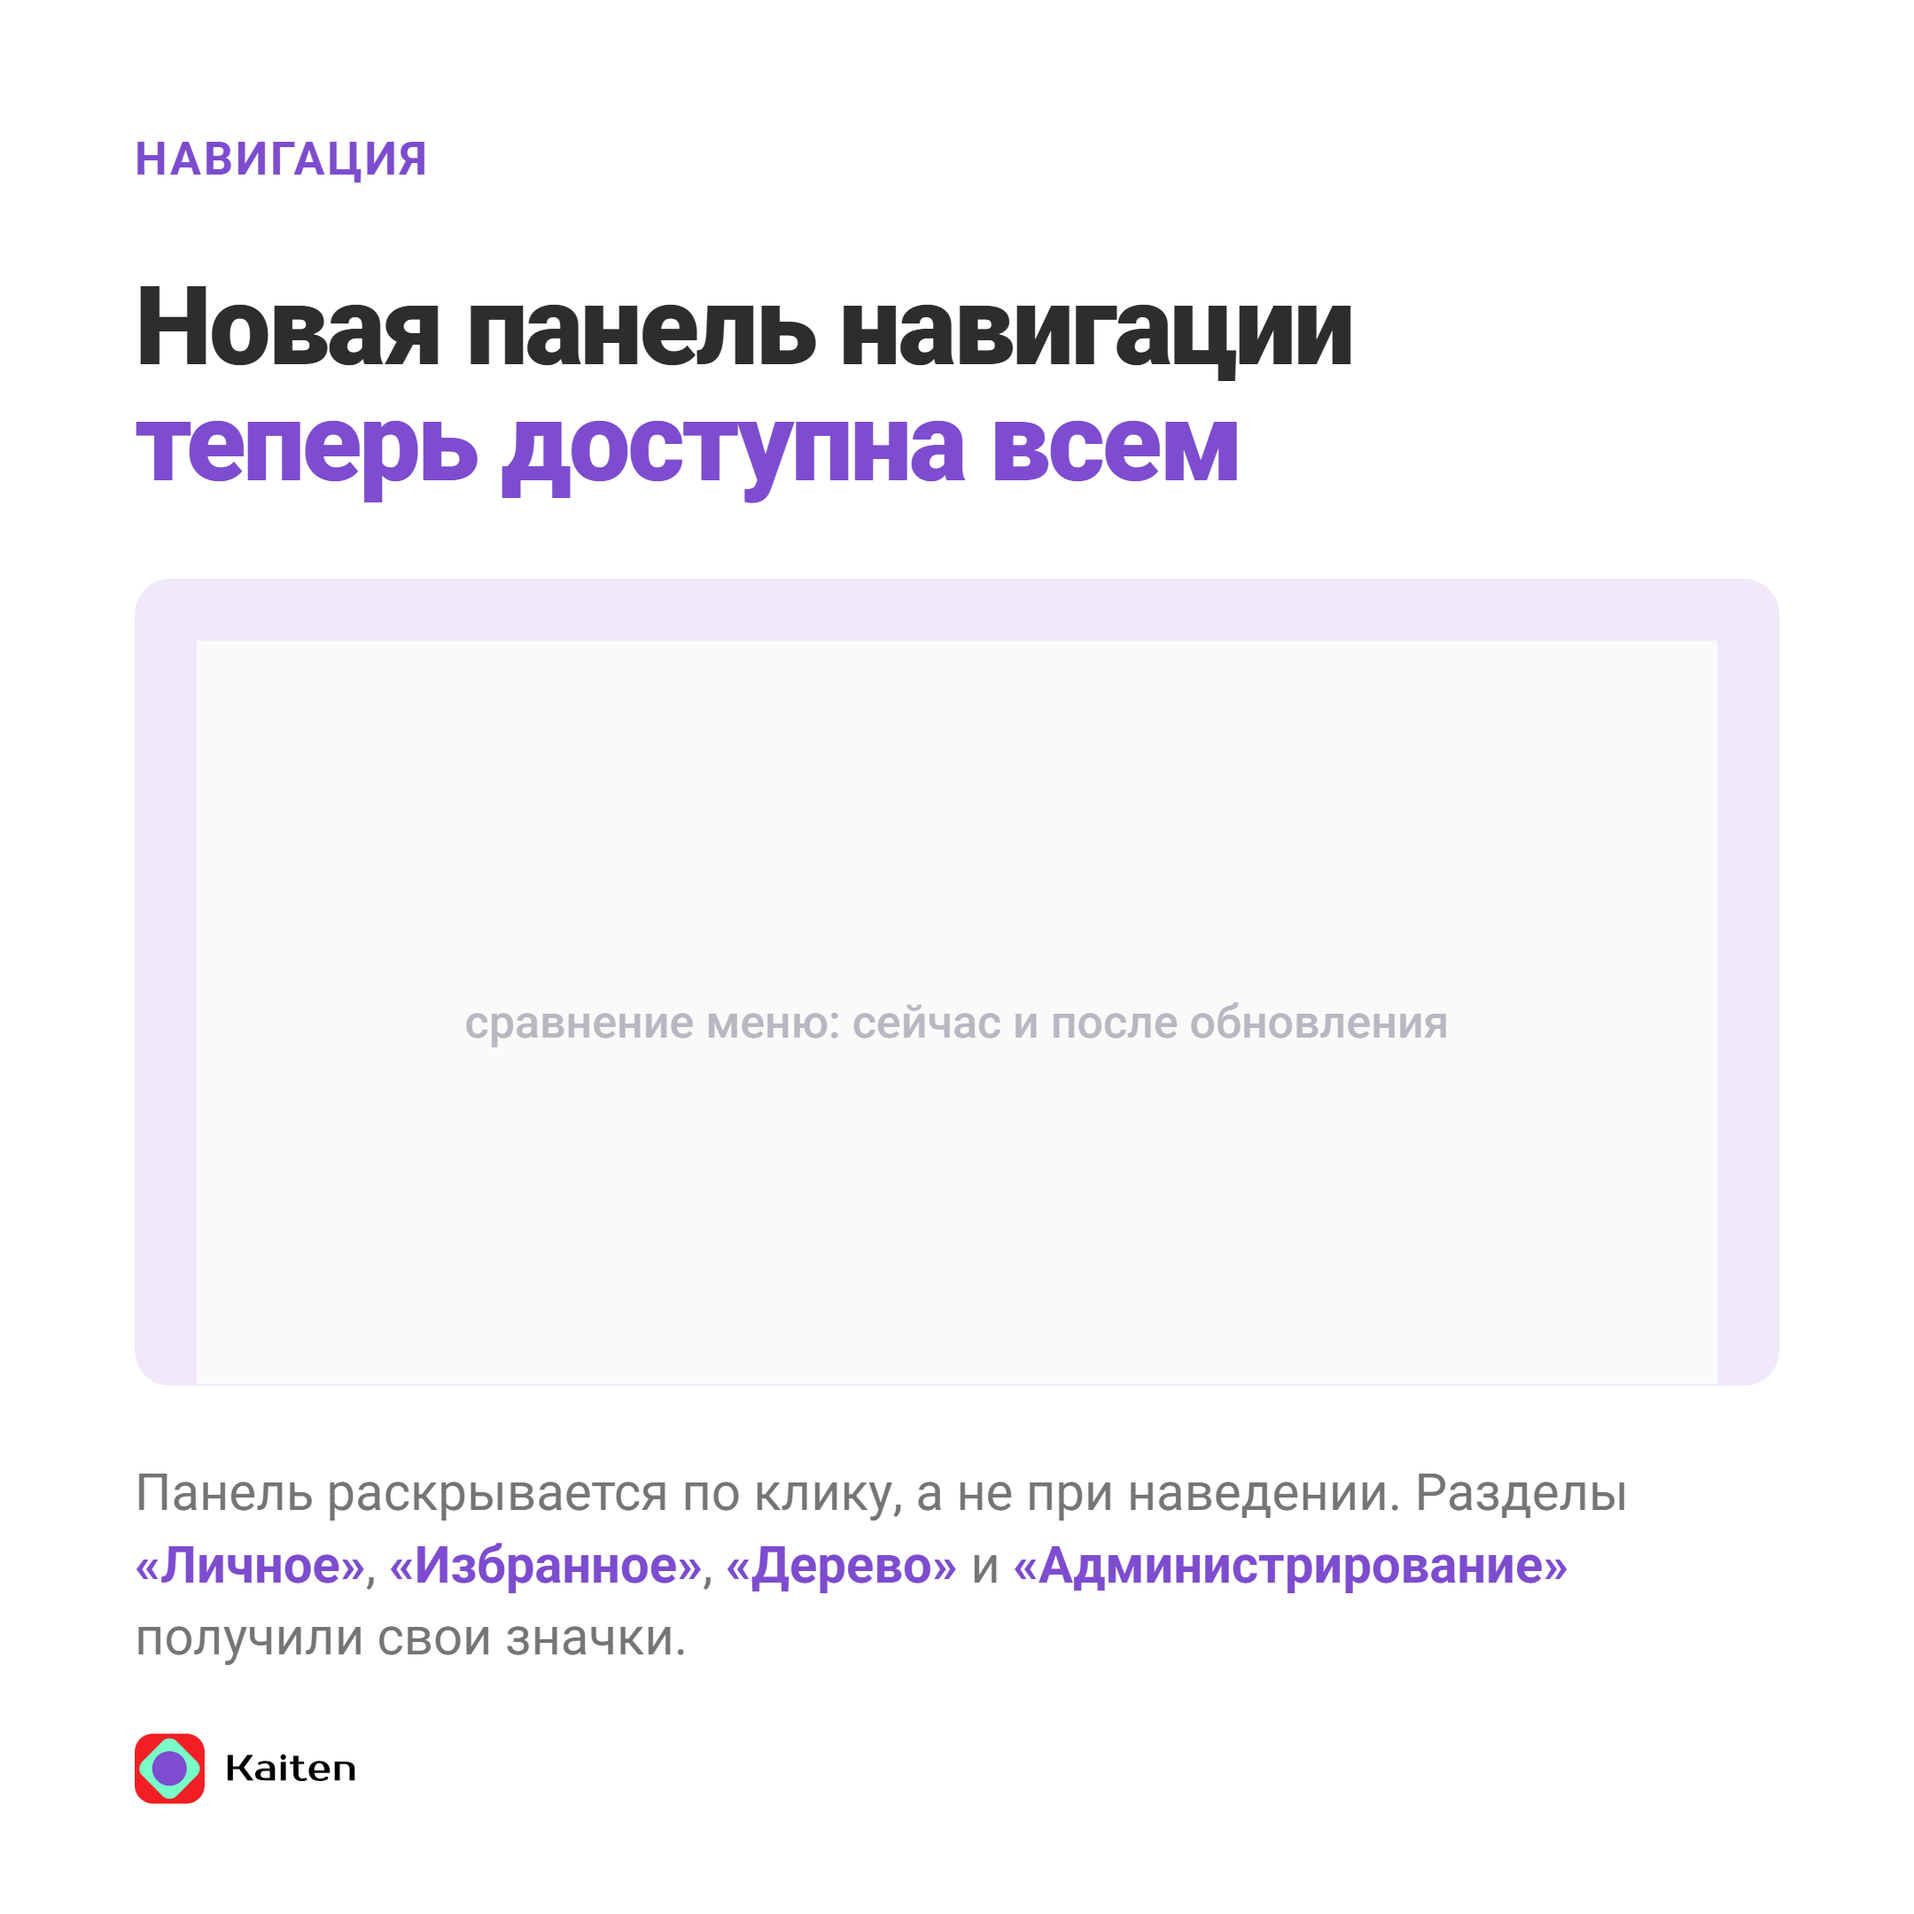
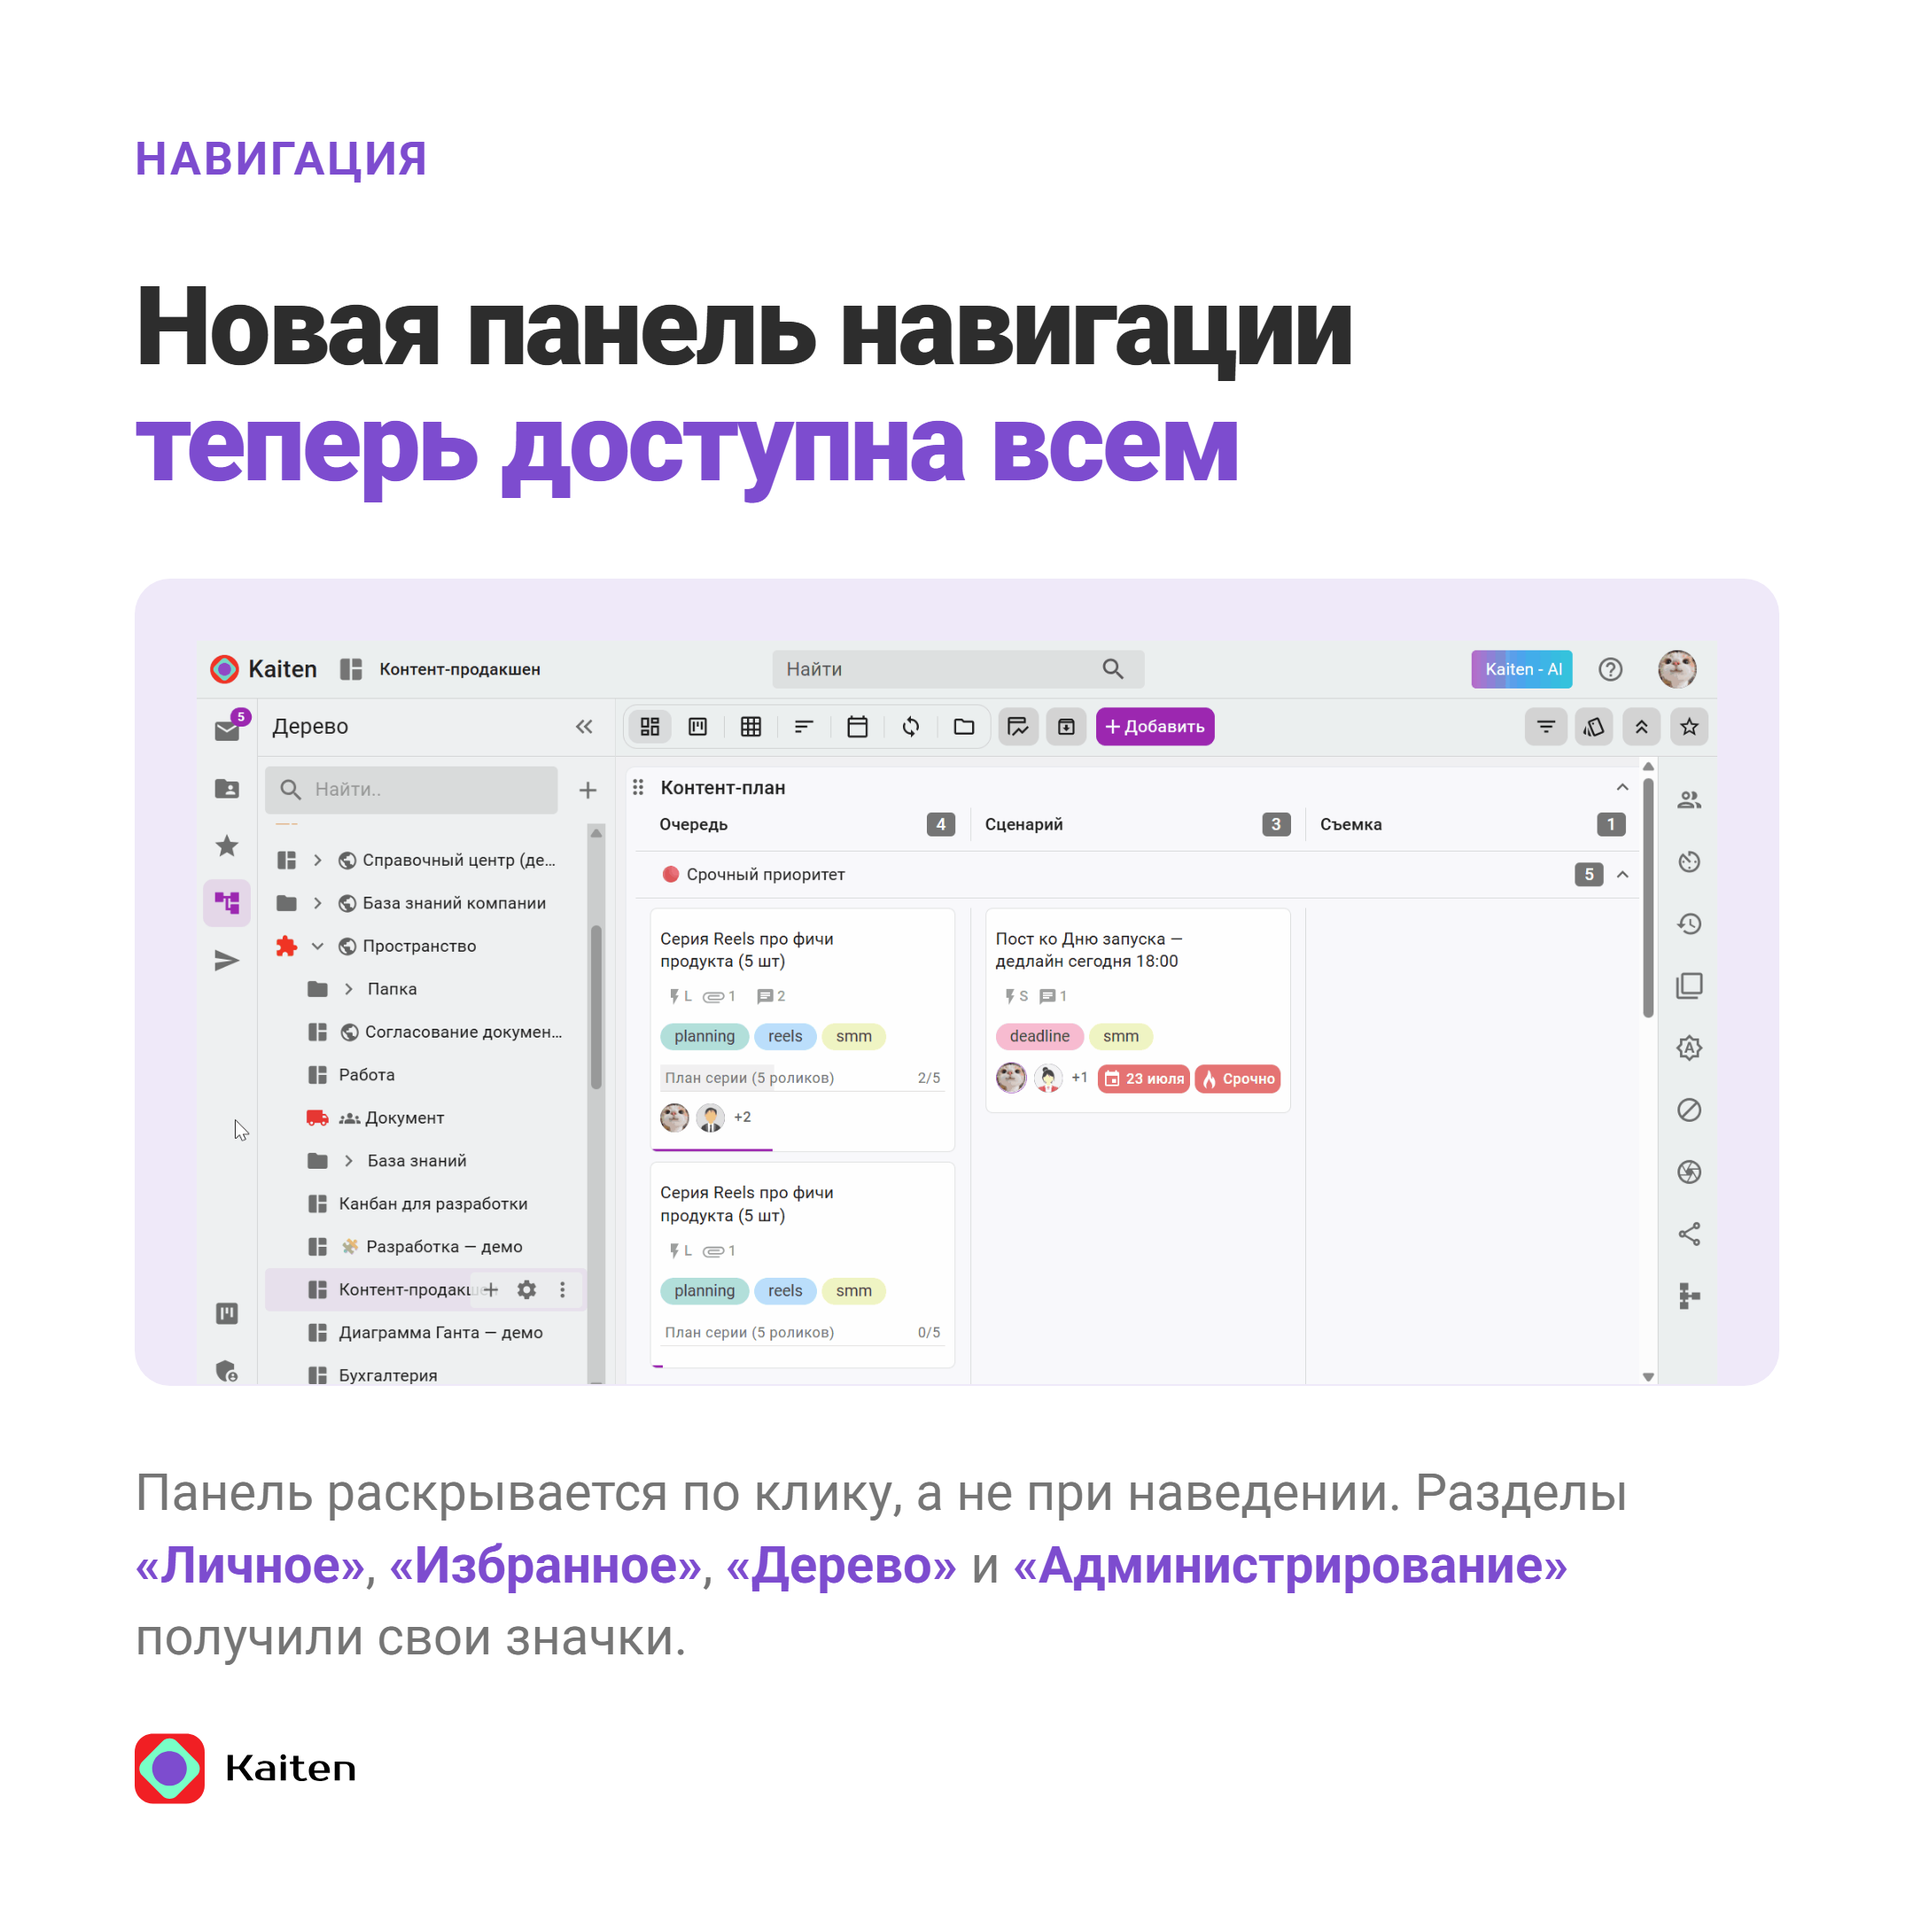
Исходники со статьи и живой скриншот в иллюстрации
Картинки скачаны со страницы базы знаний и сложены в img/source с описью:
гифка сравнения меню, обложка статьи и два экрана про бета-функции.
В макет поста поставлена гифка сравнения вместо заглушки, в кадр попал
реальный новый сайдбар.

Адреса картинок в сохранённом HTML идут с обрезанным хостом, рабочий путь -
faq-ru.kaiten.site/documents/<id>/files/<id>. Записано в опись на будущее.

diff --git a/content/posts/2026-09-03-novaya-navigaciya/img/navigaciya.html b/content/posts/2026-09-03-novaya-navigaciya/img/navigaciya.html
@@ -5,7 +5,7 @@
 <div class="inner">
 <div class="head"><div class="kicker">Навигация</div></div>
 <h1 class="h">Новая панель навигации<br><span class="hl">теперь доступна всем</span></h1>
-<div class="shot pad"><div class="stub" style="height:430px">сравнение меню: сейчас и после обновления</div></div>
+<div class="shot pad"><img src="source/menyu-sejchas-i-posle.gif" alt="Меню сейчас и после обновления"/></div>
 <div class="cap">Панель раскрывается по клику, а не при наведении. Разделы
 <b>&laquo;Личное&raquo;</b>, <b>&laquo;Избранное&raquo;</b>, <b>&laquo;Дерево&raquo;</b>
 и <b>&laquo;Администрирование&raquo;</b> получили свои значки.</div>

diff --git a/content/posts/2026-09-03-novaya-navigaciya/img/source/README.md b/content/posts/2026-09-03-novaya-navigaciya/img/source/README.md
@@ -1,0 +1,17 @@
+# Исходники со статьи базы знаний
+
+Скачаны 03.09.2026 со страницы
+[«Новая навигация в Kaiten — уже скоро»](https://faq-ru.kaiten.site/novaya-navigaciya-v-kaiten-uzhe-skoro).
+
+| Файл | Что на нём | Размер |
+|---|---|---|
+| `menyu-sejchas-i-posle.gif` | **сравнение меню: как сейчас и как будет**, анимация | 1912×957 |
+| `oblozhka-stati.png` | обложка статьи «Новая навигация уже скоро» | 1672×941 |
+| `beta-funkcii.png` | путь аватар → «Бета-функции» → «Новый сайдбар + чат» | 2023×1382 |
+| `nastrojki-kompanii-beta.png` | «Настройки компании», разрешение Beta-функций для компании | 2048×1153 |
+
+В посте от 03.09.2026 использована только гифка сравнения: остальное относится
+к бете, а про бету по правилу редакции не пишем.
+
+⚠ Это материалы Кайтена со своей же базы знаний. Для постов канала годятся,
+во внешние публикации без согласования не идут.
